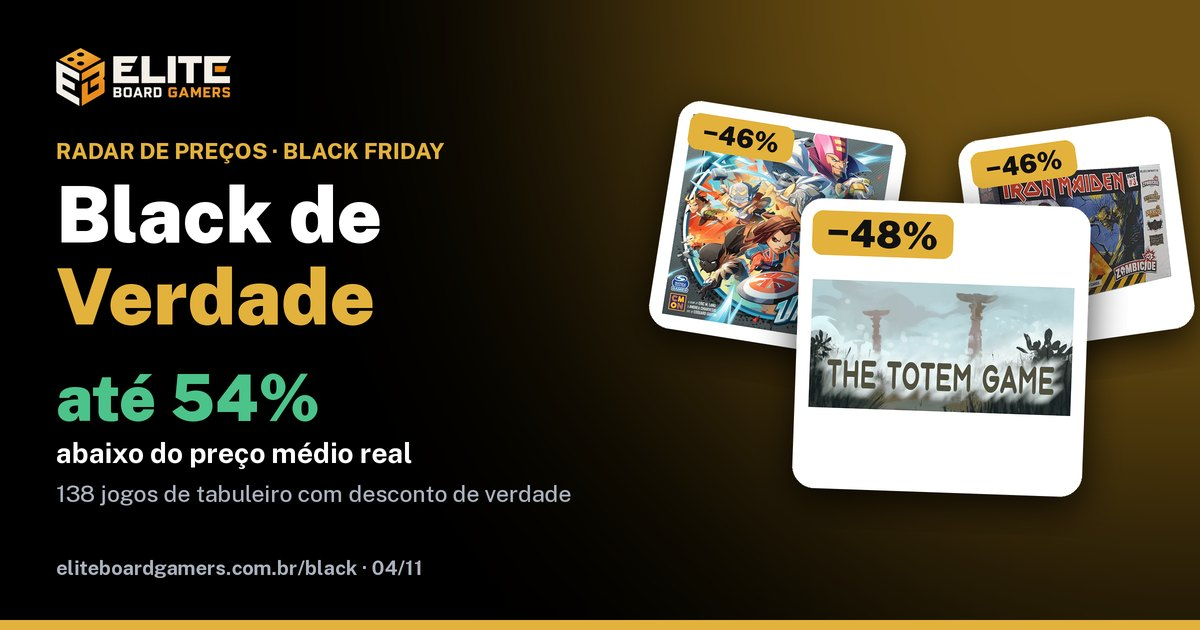
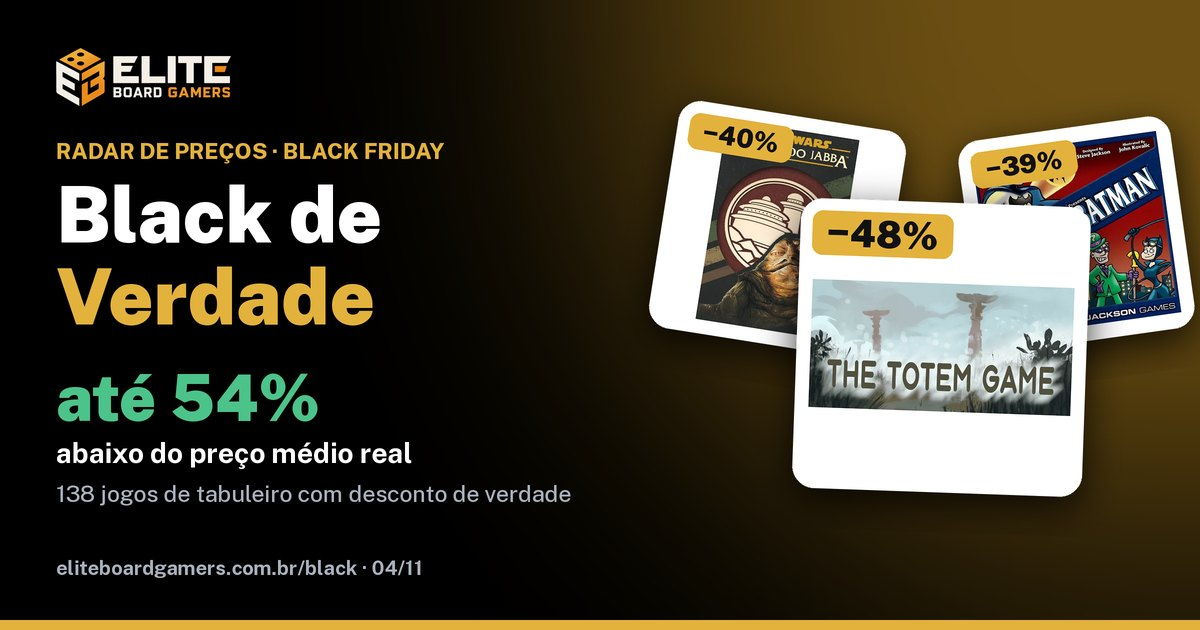
Black: "Últimas novidades" no lugar do Top 5 — as ofertas que entraram por último no radar, com selo de hora de entrada
Claude-Session: https://claude.ai/code/session_01BFQNqipWWWe2hXQE4MnyBM

Changed region(s): [[0.555, 0.2111, 0.74, 0.5429], [0.8017, 0.2111, 0.9867, 0.5127]]

diff --git a/black/index.html b/black/index.html
@@ -13,7 +13,7 @@
 <meta property="og:description" content="138 jogos de tabuleiro até 54% abaixo do preço médio real. Desconto calculado sobre o histórico, não sobre o preço &quot;de&quot; da loja. Atualizado a cada 30 minutos.">
 <meta property="og:type" content="website">
 <meta property="og:url" content="https://eliteboardgamers.com.br/black/">
-<meta property="og:image" content="https://eliteboardgamers.com.br/img/black/og-black.jpg?v=eb33a4e1">
+<meta property="og:image" content="https://eliteboardgamers.com.br/img/black/og-black.jpg?v=e7b9f8f6">
 <meta property="og:image:width" content="1200">
 <meta property="og:image:height" content="630">
 <meta name="twitter:card" content="summary_large_image">
@@ -86,7 +86,7 @@
 .dest .of-c{padding:0 14px 14px}
 .dest .of-n{font-size:1.15rem}
 .dest .of-por{font-size:1.9rem}
-.dest .pos{position:absolute;right:10px;top:10px;width:30px;height:30px;border-radius:50%;display:grid;place-items:center;background:#111;color:var(--gold);font-weight:900;font-size:.9rem;border:1px solid #4a3f1c}
+.of-novo{position:absolute;left:10px;bottom:10px;padding:4px 9px;border-radius:999px;background:#111;color:#5fd38d;font-weight:800;font-size:.78rem;border:1px solid #2f6e4a}.dest .pos{position:absolute;right:10px;top:10px;width:30px;height:30px;border-radius:50%;display:grid;place-items:center;background:#111;color:var(--gold);font-weight:900;font-size:.9rem;border:1px solid #4a3f1c}
 @media (max-width:759px){.dest{grid-auto-flow:column;grid-auto-columns:84%;overflow-x:auto;scroll-snap-type:x mandatory;padding-bottom:6px;margin:0 -16px;padding-left:16px;padding-right:16px;scrollbar-width:none}
  .dest>li{scroll-snap-align:start}}
 @media (min-width:760px){.dest{grid-template-columns:repeat(2,minmax(0,1fr))}}
@@ -403,7 +403,7 @@ footer .in{display:flex;flex-wrap:wrap;gap:10px 20px;padding-top:18px;padding-bo
 .nota .crivo{background:var(--faixa-escura);border:1px solid #262a32;--paper-ink:#eceff3;--paper-muted:#a7afbb}
 .nota .crivo p{color:#c9cfd8}
 .trilha{min-width:0;max-width:100%}.trilha ol{display:flex;align-items:center;min-width:0;margin:0;padding:0;list-style:none;font-size:.85rem;color:var(--muted)}.trilha li{display:flex;align-items:center;white-space:nowrap}.trilha li+li::before{content:"›";content:"›" / "";margin:0 8px;color:var(--muted)}.trilha a{color:var(--gold);font-weight:700;text-decoration:none;padding:4px 0}.trilha a:hover{text-decoration:underline}.trilha li:last-child{display:block;min-width:0;overflow:hidden;text-overflow:ellipsis}.trilha li:last-child::before{display:inline}.busca-btn{display:grid;place-items:center;flex:none;width:44px;height:44px;padding:0;border:1px solid #3a3f48;border-radius:8px;background:none;color:#e9ecf1;cursor:pointer}.busca-btn:hover{border-color:#e3b23c;color:#e3b23c}.busca-btn[hidden]{display:none}.sino-btn{position:relative;display:grid;place-items:center;flex:none;width:44px;height:44px;padding:0;border:1px solid #3a3f48;border-radius:8px;background:none;color:#e9ecf1;cursor:pointer}.sino-btn:hover,.sino-btn.on{border-color:#e3b23c;color:#e3b23c}.sino-btn[hidden]{display:none}.sino-btn.on::after{content:"";position:absolute;right:7px;top:7px;width:8px;height:8px;border-radius:50%;background:#5fd38d;box-shadow:0 0 0 2px #111}footer .in a{display:inline-flex;align-items:center;min-height:24px}.cpw{position:relative;display:inline-block}.cp{display:inline-flex;align-items:center;justify-content:center;gap:8px;box-sizing:border-box;line-height:1.2;min-height:44px;margin:0;padding:10px 20px;border-radius:999px;border:0;background:#157a43;color:#fff;font:inherit;font-size:.95rem;font-weight:800;text-decoration:none;cursor:pointer}.cp:hover{background:#11683a;color:#fff}.cp .ic{width:19px;height:19px}.cp[hidden]{display:none}.cpw.mini .cp{min-height:40px;padding:8px 14px;font-size:.88rem}.cp-menu{position:absolute;z-index:30;top:calc(100% + 8px);left:0;min-width:200px;display:grid;gap:2px;padding:6px;border-radius:12px;background:#fff;border:1px solid #dde1e7;box-shadow:0 10px 30px rgba(0,0,0,.25)}.cp-menu[hidden]{display:none}.cp-menu.sobe{top:auto;bottom:calc(100% + 8px)}.cp-menu.dir{left:auto;right:0}.cp-op{display:flex;align-items:center;gap:10px;min-height:44px;padding:8px 12px;border:0;border-radius:8px;background:none;color:#14171c;font:inherit;font-size:.95rem;font-weight:700;text-align:left;text-decoration:none;cursor:pointer}.cp-op:hover,.cp-op:focus-visible{background:#eef1f4;color:#14171c}.cp-op .ic{width:20px;height:20px}.cp-op.zap-op .ic{color:#157a43}.cp-st{position:absolute;z-index:30;top:calc(100% + 8px);left:0;white-space:nowrap;margin:0;padding:6px 12px;border-radius:8px;background:#14171c;color:#fff;font-size:.85rem;font-weight:700}.cp-st:empty{display:none}.barra-lt .cp-st{top:auto;bottom:calc(100% + 8px)}.convite{display:flex;align-items:center;justify-content:space-between;gap:12px 20px;flex-wrap:wrap}.convite .cv-t{margin:0;font-weight:800;font-size:1.1rem}.convite .cv-s{margin:2px 0 0;font-size:.92rem;opacity:.8}.barra-lt>*{flex:none}.barra-lt{width:max-content;max-width:calc(100vw - 12px);box-sizing:border-box;position:fixed;z-index:25;left:50%;bottom:calc(12px + env(safe-area-inset-bottom));display:flex;align-items:center;gap:4px;padding:5px;border-radius:999px;background:#14171c;border:1px solid #3a3f48;box-shadow:0 8px 24px rgba(0,0,0,.35);transform:translate(-50%,0);transition:transform .25s ease,opacity .25s ease}.barra-lt.fora{transform:translate(-50%,calc(100% + 24px));opacity:0;pointer-events:none}.lt-b{display:inline-flex;align-items:center;gap:7px;min-height:44px;padding:8px 14px;border:0;border-radius:999px;background:none;color:#e9ecf1;font:inherit;font-size:.9rem;font-weight:700;text-decoration:none;cursor:pointer}.lt-b:hover{background:#262a31;color:#fff}.lt-b .ic{width:20px;height:20px}.barra-lt .lt-b.curtir{background:none;border:0;color:#e9ecf1;padding:8px 14px}.barra-lt .lt-b.curtir[aria-pressed=true]{color:#ff6b81;background:none}@media (max-width:479px){.lt-b span{position:absolute;width:1px;height:1px;overflow:hidden;clip-path:inset(50%);white-space:nowrap}}.lt-b.curtir[aria-pressed=true] .ic{fill:currentColor}.lt-grupo{display:inline-flex;align-items:center;justify-content:center;gap:7px;min-height:44px;padding:0 14px 0 6px;border-radius:999px;background:#e3b23c;color:#14171c;font-size:.9rem;font-weight:800;text-decoration:none;white-space:nowrap}.lt-grupo:hover{background:#f0c44f;color:#14171c}.lt-grupo img{width:32px;height:32px;border-radius:8px;display:block}@media (max-width:479px){.barra-lt{gap:2px}.barra-lt .lt-b{padding:8px 10px}.barra-lt .cp{padding:8px 12px}.lt-grupo{padding:0 12px 0 6px}}@media (max-width:399px){.barra-lt:has(.curtir) .cp span{position:absolute;width:1px;height:1px;overflow:hidden;clip-path:inset(50%);white-space:nowrap}.barra-lt:has(.curtir) .cp{padding:8px 14px}}.barra-lt .cp{min-height:44px;padding:8px 16px;font-size:.9rem}body.lt-on .voltar-topo,body.lt-on button.sobe{bottom:calc(76px + env(safe-area-inset-bottom))}@media print{.barra-lt{display:none}}.interacoes{display:grid;gap:14px}.interacoes[hidden]{display:none}.curtir-l{display:flex;align-items:center;gap:12px;flex-wrap:wrap}.curtir{display:inline-flex;align-items:center;gap:8px;min-height:44px;padding:8px 18px;border-radius:999px;border:2px solid #b3263e;background:#fff;color:#b3263e;font:inherit;font-weight:800;cursor:pointer}.curtir .ic{width:22px;height:22px}.curtir[aria-pressed=true]{background:#b3263e;color:#fff}.curtir[aria-pressed=true] .ic{fill:currentColor}.curtir .n{font-variant-numeric:tabular-nums}.curtir-dica{font-size:.9rem;color:#5a6270}.interacoes h2{margin:4px 0 0}.coms{list-style:none;margin:0;padding:0;display:grid;gap:10px}.coms li{background:#fff;border:1px solid #dde1e7;border-radius:10px;padding:12px 14px}.com-quem{margin:0;font-size:.92rem}.com-quem time{color:#5a6270;font-size:.8rem;margin-left:6px}.com-txt{margin:4px 0 0;white-space:pre-wrap;color:#14171c}.coms-vazio{margin:0;color:#5a6270}.com-form{display:grid;gap:10px;border-top:1px solid #dde1e7;padding-top:14px}.com-form label{display:grid;gap:4px;font-weight:700;font-size:.9rem;color:#14171c}.com-form small{font-weight:600;color:#5a6270}.com-form input,.com-form textarea{font:inherit;font-size:16px;font-weight:400;padding:10px 12px;border:1px solid #c8cdd5;border-radius:8px;background:#fff;color:#14171c}.com-form textarea{resize:vertical;min-height:110px}.com-form .isca{position:absolute;left:-9999px;width:1px;height:1px;overflow:hidden}.com-form button{justify-self:start;min-height:44px;padding:10px 20px;border-radius:999px;border:0;background:#14171c;color:#fff;font:inherit;font-weight:800;cursor:pointer}.com-form button:disabled{opacity:.6}.com-aviso{margin:0;font-size:.82rem;color:#5a6270}.com-aviso a{color:#1f5fae}.com-st{margin:0;font-weight:700;font-size:.92rem}.com-st:empty{display:none}.com-st.ok{color:#1b7a45}.com-st.erro{color:#a3223a}:where(html){scroll-padding-top:calc(var(--nav-h,49px) + 12px)}.nav{position:sticky;top:0;z-index:20}body .abas,body .barra-f,body .ctrl{top:var(--nav-h,49px)}.marca img.logo{width:auto;height:48px;border-radius:0}@media (max-width:480px){.marca img.logo{height:40px}}.nav .casa{display:flex;align-items:center;justify-content:center;min-width:44px}.nav .casa .ic{width:20px;height:20px}@media (prefers-reduced-motion:reduce){*,*::before,*::after{animation-duration:.01ms!important;animation-iteration-count:1!important;transition-duration:.01ms!important;scroll-behavior:auto!important}.card:hover,.jogo:hover .capa img,.jogo:active .capa,.zap:active,.post-btn:active,.btn-filtro:hover,.btn-filtro:active,.ver:active{transform:none!important}}</style>
-<script type="application/ld+json">{"@context": "https://schema.org", "@graph": [{"@type": "Organization", "@id": "https://eliteboardgamers.com.br/#organizacao", "name": "Elite Boardgamers", "url": "https://eliteboardgamers.com.br/", "logo": {"@type": "ImageObject", "url": "https://eliteboardgamers.com.br/marca/elite-boardgamers.webp", "width": 318, "height": 254}, "sameAs": ["https://www.instagram.com/eliteboardgamers/"]}, {"@type": "CollectionPage", "@id": "https://eliteboardgamers.com.br/black/", "url": "https://eliteboardgamers.com.br/black/", "name": "Black de Verdade: ofertas de jogos de tabuleiro com desconto real", "inLanguage": "pt-BR", "dateModified": "2026-11-04T14:37-03:00"}, {"@type": "BreadcrumbList", "itemListElement": [{"@type": "ListItem", "position": 1, "name": "Início", "item": "https://eliteboardgamers.com.br/"}, {"@type": "ListItem", "position": 2, "name": "Black de Verdade", "item": "https://eliteboardgamers.com.br/black/"}]}]}</script>
+<script type="application/ld+json">{"@context": "https://schema.org", "@graph": [{"@type": "Organization", "@id": "https://eliteboardgamers.com.br/#organizacao", "name": "Elite Boardgamers", "url": "https://eliteboardgamers.com.br/", "logo": {"@type": "ImageObject", "url": "https://eliteboardgamers.com.br/marca/elite-boardgamers.webp", "width": 318, "height": 254}, "sameAs": ["https://www.instagram.com/eliteboardgamers/"]}, {"@type": "CollectionPage", "@id": "https://eliteboardgamers.com.br/black/", "url": "https://eliteboardgamers.com.br/black/", "name": "Black de Verdade: ofertas de jogos de tabuleiro com desconto real", "inLanguage": "pt-BR", "dateModified": "2026-11-04T14:51-03:00"}, {"@type": "BreadcrumbList", "itemListElement": [{"@type": "ListItem", "position": 1, "name": "Início", "item": "https://eliteboardgamers.com.br/"}, {"@type": "ListItem", "position": 2, "name": "Black de Verdade", "item": "https://eliteboardgamers.com.br/black/"}]}]}</script>
 </head>
 <body>
 <header class="bar" id="topo"><div class="in">
@@ -429,8 +429,8 @@ footer .in{display:flex;flex-wrap:wrap;gap:10px 20px;padding-top:18px;padding-bo
    <li><b>27</b><span>no menor preço do período</span></li>
    <li><b>9</b><span>cupoms anunciados pelas lojas</span></li>
   </ul>
-  <p class="bk-atual">Atualizado em 04/11/2026 às 14h37 (horário de Brasília). O radar lê os preços de novo a cada 30 minutos.</p>
-  <nav class="bk-pulo" aria-label="Atalhos"><a class="pri" href="#melhores">Ver as melhores ofertas</a><a class="sec" href="#alertas">🔔 Alertas no celular</a><button type="button" class="inst" hidden>📲 Tela de Início</button><a class="sec" href="#todas">Bem avaliados (61)</a><a class="sec" href="#outras">Outras promoções (77)</a><a class="sec" href="#quase">Quase Black (21)</a><a class="sec" href="#cupons">Cupons</a><a class="sec" href="#comunidade">Achados da comunidade</a><a class="sec" href="#sem-foto">Achados sem foto</a></nav>
+  <p class="bk-atual">Atualizado em 04/11/2026 às 14h51 (horário de Brasília). O radar lê os preços de novo a cada 30 minutos.</p>
+  <nav class="bk-pulo" aria-label="Atalhos"><a class="pri" href="#melhores">Ver as novidades</a><a class="sec" href="#alertas">🔔 Alertas no celular</a><button type="button" class="inst" hidden>📲 Tela de Início</button><a class="sec" href="#todas">Bem avaliados (61)</a><a class="sec" href="#outras">Outras promoções (77)</a><a class="sec" href="#quase">Quase Black (21)</a><a class="sec" href="#cupons">Cupons</a><a class="sec" href="#comunidade">Achados da comunidade</a><a class="sec" href="#sem-foto">Achados sem foto</a></nav>
  </header>
  <ul class="bk-conf">
   <li>Desconto calculado sobre a média aparada do histórico de preços, não sobre o preço "de" da loja.</li>
@@ -535,10 +535,10 @@ bts.forEach(b=>b.addEventListener('click',async()=>{
 document.querySelectorAll('.guia-perm').forEach(b=>b.addEventListener('click',()=>window.EliteGuia&&EliteGuia.abrir('permissao')))});
 </script>
  <section id="melhores" aria-labelledby="h-melhores">
-  <h2 id="h-melhores">As 5 melhores das últimas 6 horas</h2>
-  <p class="sub">A melhor combinação de nota no BGG e desconto real entre as ofertas encontradas ou conferidas desde 08h37. Muda sozinho a cada leitura do radar.</p>
+  <h2 id="h-melhores">Últimas novidades</h2>
+  <p class="sub">As ofertas que acabaram de entrar no radar, a mais nova primeiro. Muda a cada leitura, de 30 em 30 minutos.</p>
   <ol class="dest"><li class="of" data-tipo="game" data-desc="0.4815" data-eco="34.44" data-bgg="8.14" data-por="37.09" data-rec="1" data-busca="the totem game place games (independente)">
- <a class="of-img" href="https://www.placegames.com.br/boardgames/the-totem-game" target="_blank" rel="noopener nofollow sponsored" tabindex="-1" aria-hidden="true"><img src="../img/black/the-totem-game-g.webp" alt="" loading="lazy" decoding="async" width="640" height="640"><span class="of-pct">−48%</span><span class="pos">1</span></a>
+ <a class="of-img" href="https://www.placegames.com.br/boardgames/the-totem-game" target="_blank" rel="noopener nofollow sponsored" tabindex="-1" aria-hidden="true"><img src="../img/black/the-totem-game-g.webp" alt="" loading="lazy" decoding="async" width="640" height="640"><span class="of-pct">−48%</span></a>
  <div class="of-c">
   <span class="of-rec">Menor preço do período</span>
   <h3 class="of-n">The Totem Game</h3>
@@ -554,75 +554,126 @@ document.querySelectorAll('.guia-perm').forEach(b=>b.addEventListener('click',()
   
   <details class="of-mais"><summary>Como chegamos a esse desconto</summary><p class="calc">Média do período: R$ 71,53 (33 dias de histórico, base curta). Menor preço do período: R$ 37,09. Preço lido na página da loja, hoje às 14h36.</p></details>
  </div>
-</li><li class="of" data-tipo="game" data-desc="0.4555" data-eco="88.57" data-bgg="8.41" data-por="105.90" data-rec="0" data-busca="marvel united: multiverse facil shopping cmon limited">
- <a class="of-img" href="https://www.facilshopping.com.br/produtos/marvel-united-multiverse-jogo-de-tabuleiro-galapagos/" target="_blank" rel="noopener nofollow sponsored" tabindex="-1" aria-hidden="true"><img src="../img/black/marvel-united-multiverse-g.webp" alt="" loading="lazy" decoding="async" width="640" height="640"><span class="of-pct">−46%</span><span class="pos">2</span></a>
+</li><li class="of" data-tipo="game" data-desc="0.4009" data-eco="18.60" data-bgg="7.21" data-por="27.79" data-rec="1" data-busca="star wars: palácio do jabba: um jogo love letter place games galápagos jogos">
+ <a class="of-img" href="https://www.placegames.com.br/palacio-de-jabba" target="_blank" rel="noopener nofollow sponsored" tabindex="-1" aria-hidden="true"><img src="../img/black/star-wars-palacio-do-jabba-um-jogo-love-letter-g.webp" alt="" loading="lazy" decoding="async" width="640" height="640"><span class="of-pct">−40%</span></a>
+ <div class="of-c">
+  <span class="of-rec">Menor preço do período</span>
+  <h3 class="of-n">Star Wars: Palácio do Jabba: Um Jogo Love Letter</h3>
+  <p class="of-m">Galápagos Jogos · <span class="of-nota">★ 7,2</span> no BGG</p>
+  <p class="of-p"><b class="of-por">R$ 27,79</b><span class="of-ref">média <s>R$ 46,39</s></span></p>
+  <div class="of-bar" role="img" aria-label="Preço de hoje é 60% da média"><span style="width:60%"></span></div>
+  <p class="of-eco">R$ 18,60 abaixo da média (40%)</p>
+  <p class="of-loja">na <b>Place Games</b> · preço visto hoje às 14h36</p>
+ </div>
+ <div class="of-acao">
+  <a class="of-btn" href="https://www.placegames.com.br/palacio-de-jabba" target="_blank" rel="noopener nofollow sponsored">Ver na Place Games ↗</a>
+  
+  
+  <details class="of-mais"><summary>Como chegamos a esse desconto</summary><p class="calc">Média do período: R$ 46,39 (33 dias de histórico, base curta). Menor preço do período: R$ 27,79. Preço lido na página da loja, hoje às 14h36.</p></details>
+ </div>
+</li><li class="of" data-tipo="game" data-desc="0.3888" data-eco="40.72" data-bgg="7.47" data-por="64.00" data-rec="0" data-busca="steve jackson&#x27;s munchkin presents batman caixinha boardgames cryptozoic entertainment">
+ <a class="of-img" href="https://www.caixinhaboardgames.com.br/produtos/munchkin-batman/" target="_blank" rel="noopener nofollow sponsored" tabindex="-1" aria-hidden="true"><img src="../img/black/steve-jacksons-munchkin-presents-batman-g.webp" alt="" loading="lazy" decoding="async" width="640" height="640"><span class="of-pct">−39%</span></a>
  <div class="of-c">
   
-  <h3 class="of-n">Marvel United: Multiverse</h3>
-  <p class="of-m">CMON Limited · <span class="of-nota">★ 8,4</span> no BGG</p>
-  <p class="of-p"><b class="of-por">R$ 105,90</b><span class="of-ref">média <s>R$ 194,47</s></span></p>
+  <h3 class="of-n">Steve Jackson&#x27;s Munchkin Presents Batman</h3>
+  <p class="of-m">Cryptozoic Entertainment · <span class="of-nota">★ 7,5</span> no BGG</p>
+  <p class="of-p"><b class="of-por">R$ 64,00</b><span class="of-ref">média <s>R$ 104,72</s></span></p>
+  <div class="of-bar" role="img" aria-label="Preço de hoje é 61% da média"><span style="width:61%"></span></div>
+  <p class="of-eco">R$ 40,72 abaixo da média (39%)</p>
+  <p class="of-loja">na <b>Caixinha Boardgames</b> · preço visto hoje às 14h36</p>
+ </div>
+ <div class="of-acao">
+  <a class="of-btn" href="https://www.caixinhaboardgames.com.br/produtos/munchkin-batman/" target="_blank" rel="noopener nofollow sponsored">Ver na Caixinha Boardgames ↗</a>
+  
+  
+  <details class="of-mais"><summary>Como chegamos a esse desconto</summary><p class="calc">Média do período: R$ 104,72 (33 dias de histórico, base curta). Menor preço do período: R$ 59,52. Preço lido na página da loja, hoje às 14h36.</p></details>
+ </div>
+</li><li class="of" data-tipo="game" data-desc="0.3548" data-eco="22.00" data-bgg="8.50" data-por="40.00" data-rec="0" data-busca="zenkai: adventure arcs livros e jogos art ao cubo">
+ <a class="of-img" href="https://www.espacoarcs.com.br/jogos/zenkai-adventure-caverna-glacial" target="_blank" rel="noopener nofollow sponsored" tabindex="-1" aria-hidden="true"><img src="../img/black/zenkai-adventure-g.webp" alt="" loading="lazy" decoding="async" width="640" height="640"><span class="of-pct">−35%</span></a>
+ <div class="of-c">
+  
+  <h3 class="of-n">Zenkai: Adventure</h3>
+  <p class="of-m">Art ao Cubo · <span class="of-nota">★ 8,5</span> no BGG</p>
+  <p class="of-p"><b class="of-por">R$ 40,00</b><span class="of-ref">média <s>R$ 62,00</s></span></p>
+  <div class="of-bar" role="img" aria-label="Preço de hoje é 65% da média"><span style="width:65%"></span></div>
+  <p class="of-eco">R$ 22,00 abaixo da média (35%)</p>
+  <p class="of-loja">na <b>ARCS Livros e Jogos</b> · preço visto hoje às 14h36</p>
+ </div>
+ <div class="of-acao">
+  <a class="of-btn" href="https://www.espacoarcs.com.br/jogos/zenkai-adventure-caverna-glacial" target="_blank" rel="noopener nofollow sponsored">Ver na ARCS Livros e Jogos ↗</a>
+  
+  
+  <details class="of-mais"><summary>Como chegamos a esse desconto</summary><p class="calc">Média do período: R$ 62,00 (33 dias de histórico, base curta). Menor preço do período: R$ 36,00. Preço lido na página da loja, hoje às 14h36.</p></details>
+ </div>
+</li><li class="of" data-tipo="expansion" data-desc="0.3244" data-eco="14.35" data-bgg="7.99" data-por="29.90" data-rec="0" data-busca="viticulture: visitantes do charco facil shopping ludofy creative">
+ <a class="of-img" href="https://www.facilshopping.com.br/produtos/viticulture-visitantes-do-charco-expansao-grok/" target="_blank" rel="noopener nofollow sponsored" tabindex="-1" aria-hidden="true"><img src="../img/black/viticulture-visitantes-do-charco-g.webp" alt="" loading="lazy" decoding="async" width="640" height="640"><span class="of-pct">−32%</span></a>
+ <div class="of-c">
+  
+  <h3 class="of-n">Viticulture: Visitantes do Charco</h3>
+  <p class="of-m">Ludofy Creative · Expansão · <span class="of-nota">★ 8,0</span> no BGG</p>
+  <p class="of-p"><b class="of-por">R$ 29,90</b><span class="of-ref">média <s>R$ 44,25</s></span></p>
+  <div class="of-bar" role="img" aria-label="Preço de hoje é 68% da média"><span style="width:68%"></span></div>
+  <p class="of-eco">R$ 14,35 abaixo da média (32%)</p>
+  <p class="of-loja">na <b>Facil Shopping</b> · preço visto hoje às 14h36</p>
+ </div>
+ <div class="of-acao">
+  <a class="of-btn" href="https://www.facilshopping.com.br/produtos/viticulture-visitantes-do-charco-expansao-grok/" target="_blank" rel="noopener nofollow sponsored">Ver na Facil Shopping ↗</a>
+  
+  
+  <details class="of-mais"><summary>Como chegamos a esse desconto</summary><p class="calc">Média do período: R$ 44,25 (33 dias de histórico, base curta). Menor preço do período: R$ 27,81. Preço lido na página da loja, hoje às 14h36.</p></details>
+ </div>
+</li><li class="of" data-tipo="expansion" data-desc="0.2853" data-eco="48.22" data-bgg="8.45" data-por="120.79" data-rec="1" data-busca="wingspan: expansão oceania place games ludofy creative">
+ <a class="of-img" href="https://www.placegames.com.br/wingspan-oceania" target="_blank" rel="noopener nofollow sponsored" tabindex="-1" aria-hidden="true"><img src="../img/black/wingspan-expansao-oceania-g.webp" alt="" loading="lazy" decoding="async" width="640" height="640"><span class="of-pct">−29%</span></a>
+ <div class="of-c">
+  <span class="of-rec">Menor preço do período</span>
+  <h3 class="of-n">Wingspan: Expansão Oceania</h3>
+  <p class="of-m">Ludofy Creative · Expansão · <span class="of-nota">★ 8,5</span> no BGG</p>
+  <p class="of-p"><b class="of-por">R$ 120,79</b><span class="of-ref">média <s>R$ 169,01</s></span></p>
+  <div class="of-bar" role="img" aria-label="Preço de hoje é 71% da média"><span style="width:71%"></span></div>
+  <p class="of-eco">R$ 48,22 abaixo da média (29%)</p>
+  <p class="of-loja">na <b>Place Games</b> · preço visto hoje às 14h36</p>
+ </div>
+ <div class="of-acao">
+  <a class="of-btn" href="https://www.placegames.com.br/wingspan-oceania" target="_blank" rel="noopener nofollow sponsored">Ver na Place Games ↗</a>
+  
+  
+  <details class="of-mais"><summary>Como chegamos a esse desconto</summary><p class="calc">Média do período: R$ 169,01 (33 dias de histórico, base curta). Menor preço do período: R$ 120,79. Preço lido na página da loja, hoje às 14h36.</p></details>
+ </div>
+</li><li class="of" data-tipo="game" data-desc="0.2846" data-eco="47.70" data-bgg="7.89" data-por="119.90" data-rec="0" data-busca="van gogh tabuloja conclave editora">
+ <a class="of-img" href="https://www.tabuloja.com/jogos-de-tabuleiro/jogos-base/van-gogh" target="_blank" rel="noopener nofollow sponsored" tabindex="-1" aria-hidden="true"><img src="../img/black/van-gogh-g.webp" alt="" loading="lazy" decoding="async" width="640" height="640"><span class="of-pct">−28%</span></a>
+ <div class="of-c">
+  
+  <h3 class="of-n">Van Gogh</h3>
+  <p class="of-m">Conclave Editora · <span class="of-nota">★ 7,9</span> no BGG</p>
+  <p class="of-p"><b class="of-por">R$ 119,90</b><span class="of-ref">média <s>R$ 167,60</s></span></p>
+  <div class="of-bar" role="img" aria-label="Preço de hoje é 72% da média"><span style="width:72%"></span></div>
+  <p class="of-eco">R$ 47,70 abaixo da média (28%)</p>
+  <p class="of-loja">na <b>TabuLoja</b> · preço visto hoje às 14h36</p>
+ </div>
+ <div class="of-acao">
+  <a class="of-btn" href="https://www.tabuloja.com/jogos-de-tabuleiro/jogos-base/van-gogh" target="_blank" rel="noopener nofollow sponsored">Ver na TabuLoja ↗</a>
+  
+  
+  <details class="of-mais"><summary>Como chegamos a esse desconto</summary><p class="calc">Média do período: R$ 167,60 (33 dias de histórico, base curta). Menor preço do período: R$ 107,91. Preço lido na página da loja, hoje às 14h36.</p></details>
+ </div>
+</li><li class="of" data-tipo="game" data-desc="0.4573" data-eco="18.17" data-bgg="6.41" data-por="21.56" data-rec="0" data-busca="uestop! facil shopping caixinha boardgames galápagos jogos">
+ <a class="of-img" href="https://www.facilshopping.com.br/produtos/uestop-jogo-de-cartas-galapagos/" target="_blank" rel="noopener nofollow sponsored" tabindex="-1" aria-hidden="true"><img src="../img/black/uestop-g.webp" alt="" loading="lazy" decoding="async" width="640" height="640"><span class="of-pct">−46%</span></a>
+ <div class="of-c">
+  
+  <h3 class="of-n">UeStop!</h3>
+  <p class="of-m">Galápagos Jogos · <span class="of-nota">★ 6,4</span> no BGG</p>
+  <p class="of-p"><b class="of-por">R$ 21,56</b><span class="of-ref">média <s>R$ 39,73</s></span></p>
   <div class="of-bar" role="img" aria-label="Preço de hoje é 54% da média"><span style="width:54%"></span></div>
-  <p class="of-eco">R$ 88,57 abaixo da média (46%)</p>
-  <p class="of-loja">na <b>Facil Shopping</b> · preço visto hoje às 14h34</p>
+  <p class="of-eco">R$ 18,17 abaixo da média (46%)</p>
+  <p class="of-loja">na <b>Facil Shopping</b> · preço visto hoje às 14h36</p>
  </div>
  <div class="of-acao">
-  <a class="of-btn" href="https://www.facilshopping.com.br/produtos/marvel-united-multiverse-jogo-de-tabuleiro-galapagos/" target="_blank" rel="noopener nofollow sponsored">Ver na Facil Shopping ↗</a>
+  <a class="of-btn" href="https://www.facilshopping.com.br/produtos/uestop-jogo-de-cartas-galapagos/" target="_blank" rel="noopener nofollow sponsored">Ver na Facil Shopping ↗</a>
+  <details class="of-mais"><summary>Mais 1 loja com desconto real</summary><ul><li><span>Caixinha Boardgames: <b>R$ 22,00</b> (45% abaixo da média)</span><a href="https://www.caixinhaboardgames.com.br/produtos/uestop-turma-da-monica/" target="_blank" rel="noopener nofollow sponsored">Ver</a></li></ul></details>
   
-  
-  <details class="of-mais"><summary>Como chegamos a esse desconto</summary><p class="calc">Média do período: R$ 194,47 (33 dias de histórico, base curta). Menor preço do período: R$ 98,49. Preço lido na página da loja, hoje às 14h34.</p></details>
+  <details class="of-mais"><summary>Como chegamos a esse desconto</summary><p class="calc">Média do período: R$ 39,73 (32 dias de histórico, base curta). Menor preço do período: R$ 20,05. Preço lido na página da loja, hoje às 14h36.</p></details>
  </div>
-</li><li class="of" data-tipo="expansion" data-desc="0.4578" data-eco="109.74" data-bgg="8.23" data-por="129.99" data-rec="0" data-busca="iron maiden pack #3 bravo jogos cmon limited">
- <a class="of-img" href="https://bravojogos.com.br/jogos-de-tabuleiro-e-cardgames/expansoes/jogo-iron-maiden-character-pack-3-expansao-p" target="_blank" rel="noopener nofollow sponsored" tabindex="-1" aria-hidden="true"><img src="../img/black/iron-maiden-pack-3-g.webp" alt="" loading="lazy" decoding="async" width="640" height="640"><span class="of-pct">−46%</span><span class="pos">3</span></a>
- <div class="of-c">
-  
-  <h3 class="of-n">Iron Maiden Pack #3</h3>
-  <p class="of-m">CMON Limited · Expansão · <span class="of-nota">★ 8,2</span> no BGG</p>
-  <p class="of-p"><b class="of-por">R$ 129,99</b><span class="of-ref">média <s>R$ 239,73</s></span></p>
-  <div class="of-bar" role="img" aria-label="Preço de hoje é 54% da média"><span style="width:54%"></span></div>
-  <p class="of-eco">R$ 109,74 abaixo da média (46%)</p>
-  <p class="of-loja">na <b>Bravo Jogos</b> · preço visto hoje às 14h34 <span class="of-cp">cupom CARNIVAL</span></p>
- </div>
- <div class="of-acao">
-  <a class="of-btn" href="https://bravojogos.com.br/jogos-de-tabuleiro-e-cardgames/expansoes/jogo-iron-maiden-character-pack-3-expansao-p" target="_blank" rel="noopener nofollow sponsored">Ver na Bravo Jogos ↗</a>
-  
-  
-  <details class="of-mais"><summary>Como chegamos a esse desconto</summary><p class="calc">Média do período: R$ 239,73 (33 dias de histórico, base curta). Menor preço do período: R$ 120,89. Preço lido na página da loja, hoje às 14h34.</p></details>
- </div>
-</li><li class="of" data-tipo="game" data-desc="0.4989" data-eco="50.00" data-bgg="7.18" data-por="50.22" data-rec="1" data-busca="piratas! (3ª edição) caixinha boardgames place games geeks n&#x27; orcs">
- <a class="of-img" href="https://www.comparajogos.com.br/item/piratas-3a-edicao" target="_blank" rel="noopener nofollow sponsored" tabindex="-1" aria-hidden="true"><img src="../img/black/piratas-3a-edicao-g.webp" alt="" loading="lazy" decoding="async" width="640" height="640"><span class="of-pct">−50%</span><span class="pos">4</span></a>
- <div class="of-c">
-  <span class="of-rec">Menor preço do período</span><span class="of-com">Achado da comunidade · vendedor não conferido</span>
-  <h3 class="of-n">Piratas! (3ª Edição)</h3>
-  <p class="of-m">Geeks N&#x27; Orcs · <span class="of-nota">★ 7,2</span> no BGG</p>
-  <p class="of-p"><b class="of-por">R$ 50,22</b><span class="of-ref">média <s>R$ 100,22</s></span></p>
-  <div class="of-bar" role="img" aria-label="Preço de hoje é 50% da média"><span style="width:50%"></span></div>
-  <p class="of-eco">R$ 50,00 abaixo da média (50%)</p>
-  <p class="of-loja">na <b>Caixinha Boardgames</b> · postado hoje às 12h04</p>
- </div>
- <div class="of-acao">
-  <a class="of-btn" href="https://www.comparajogos.com.br/item/piratas-3a-edicao" target="_blank" rel="noopener nofollow sponsored">Ver na Caixinha Boardgames ↗</a>
-  <details class="of-mais"><summary>Mais 1 loja com desconto real</summary><ul><li><span>Place Games: <b>R$ 74,29</b> (26% abaixo da média)</span><a href="https://www.placegames.com.br/boardgames/piratas-edicao-10-anos" target="_blank" rel="noopener nofollow sponsored">Ver</a></li></ul></details>
-  <a class="of-post" href="https://t.me/ComparaJogos/52442" target="_blank" rel="noopener nofollow">Ver o post original ↗</a>
-  <details class="of-mais"><summary>Como chegamos a esse desconto</summary><p class="calc">Média do período: R$ 100,22 (33 dias de histórico, base curta). Menor preço do período: R$ 50,22. Preço postado no Canal Compara Jogos hoje às 12h04; vendedor e validade não conferidos pelo robô.</p></details>
- </div>
-</li><li class="of" data-tipo="expansion" data-desc="0.4518" data-eco="15.65" data-bgg="7.46" data-por="18.99" data-rec="0" data-busca="magic maze: maximum security taverna real caixinha boardgames dude games">
- <a class="of-img" href="https://www.tavernareal.com/tabuleiro/magic-maze-maximum-security" target="_blank" rel="noopener nofollow sponsored" tabindex="-1" aria-hidden="true"><img src="../img/black/magic-maze-maximum-security-g.webp" alt="" loading="lazy" decoding="async" width="640" height="640"><span class="of-pct">−45%</span><span class="pos">5</span></a>
- <div class="of-c">
-  
-  <h3 class="of-n">Magic Maze: Maximum Security</h3>
-  <p class="of-m">Dude Games · Expansão · <span class="of-nota">★ 7,5</span> no BGG</p>
-  <p class="of-p"><b class="of-por">R$ 18,99</b><span class="of-ref">média <s>R$ 34,64</s></span></p>
-  <div class="of-bar" role="img" aria-label="Preço de hoje é 55% da média"><span style="width:55%"></span></div>
-  <p class="of-eco">R$ 15,65 abaixo da média (45%)</p>
-  <p class="of-loja">na <b>Taverna Real</b> · preço visto hoje às 14h34</p>
- </div>
- <div class="of-acao">
-  <a class="of-btn" href="https://www.tavernareal.com/tabuleiro/magic-maze-maximum-security" target="_blank" rel="noopener nofollow sponsored">Ver na Taverna Real ↗</a>
-  <details class="of-mais"><summary>Mais 1 loja com desconto real</summary><ul><li><span>Caixinha Boardgames: <b>R$ 19,00</b> (45% abaixo da média)</span><a href="https://www.caixinhaboardgames.com.br/produtos/maximum-security-expansao-magic-maze/" target="_blank" rel="noopener nofollow sponsored">Ver</a></li></ul></details>
-  
-  <details class="of-mais"><summary>Como chegamos a esse desconto</summary><p class="calc">Média do período: R$ 34,64 (33 dias de histórico, base curta). Menor preço do período: R$ 13,57. Preço lido na página da loja, hoje às 14h34.</p></details>
- </div>
-</li></ol><p class="dica-arrasta">Arraste para o lado para ver as cinco.</p>
+</li></ol><p class="dica-arrasta">Arraste para o lado para ver as outras.</p>
  </section>
  <section id="todas" aria-labelledby="h-todas">
   <h2 id="h-todas">Todas as ofertas com desconto real</h2>

diff --git a/tools/black/pagina_black.py b/tools/black/pagina_black.py
@@ -97,7 +97,7 @@ CSS = """<style>
 .dest .of-c{padding:0 14px 14px}
 .dest .of-n{font-size:1.15rem}
 .dest .of-por{font-size:1.9rem}
-.dest .pos{position:absolute;right:10px;top:10px;width:30px;height:30px;border-radius:50%;display:grid;place-items:center;background:#111;color:var(--gold);font-weight:900;font-size:.9rem;border:1px solid #4a3f1c}
+.of-novo{position:absolute;left:10px;bottom:10px;padding:4px 9px;border-radius:999px;background:#111;color:#5fd38d;font-weight:800;font-size:.78rem;border:1px solid #2f6e4a}.dest .pos{position:absolute;right:10px;top:10px;width:30px;height:30px;border-radius:50%;display:grid;place-items:center;background:#111;color:var(--gold);font-weight:900;font-size:.9rem;border:1px solid #4a3f1c}
 @media (max-width:759px){.dest{grid-auto-flow:column;grid-auto-columns:84%;overflow-x:auto;scroll-snap-type:x mandatory;padding-bottom:6px;margin:0 -16px;padding-left:16px;padding-right:16px;scrollbar-width:none}
  .dest>li{scroll-snap-align:start}}
 @media (min-width:760px){.dest{grid-template-columns:repeat(2,minmax(0,1fr))}}
@@ -301,7 +301,7 @@ def nota_txt(x):
     return f'<span class="of-nota">★ {x["bgg"]:.1f}</span> no BGG'.replace(".", ",", 1) if x["bgg"] else "sem nota no BGG"
 
 
-def cartao(grupo, pre, cps, agora_, destaque=False, pos=None):
+def cartao(grupo, pre, cps, agora_, destaque=False, pos=None, novo=None):
     """Um jogo: a melhor oferta em destaque e, se houver, as outras lojas que também passaram no corte."""
     x = grupo[0]
     img = capa(x, pre, 640 if destaque else 240)
@@ -318,7 +318,7 @@ def cartao(grupo, pre, cps, agora_, destaque=False, pos=None):
     dados = (f'data-tipo="{e(x["tipo"])}" data-desc="{x["desc"]:.4f}" data-eco="{eco:.2f}" data-bgg="{x["bgg"] or 0:.2f}" '
              f'data-por="{x["por"]:.2f}" data-rec="{1 if x["recorde"] else 0}" data-busca="{e((nome(x) + " " + " ".join(o["loja"] for o in grupo) + " " + (x["editora"] or "")).lower())}"')
     return f"""<li class="of" {dados}>
- <a class="of-img" href="{e(x["url"])}" {rel} tabindex="-1" aria-hidden="true">{f'<img src="{img}" alt="" loading="lazy" decoding="async" width="{640 if destaque else 240}" height="{640 if destaque else 240}">' if img else ilustra(nome(x), x["loja"])}<span class="of-pct">−{pct(x["desc"])}</span>{f'<span class="pos">{pos}</span>' if pos else ""}</a>
+ <a class="of-img" href="{e(x["url"])}" {rel} tabindex="-1" aria-hidden="true">{f'<img src="{img}" alt="" loading="lazy" decoding="async" width="{640 if destaque else 240}" height="{640 if destaque else 240}">' if img else ilustra(nome(x), x["loja"])}<span class="of-pct">−{pct(x["desc"])}</span>{f'<span class="pos">{pos}</span>' if pos else ""}{f'<span class="of-novo">🆕 entrou {e(novo)}</span>' if novo else ""}</a>
  <div class="of-c">
   {'<span class="of-rec">Menor preço do período</span>' if x["recorde"] else ""}{f'<span class="of-com">Achado da comunidade · vendedor não conferido</span>' if x.get("comunidade") else ""}
   <h3 class="of-n">{e(nome(x))}</h3>
@@ -354,7 +354,8 @@ document.addEventListener('click',async e=>{const b=e.target.closest('.cup-cod')
 </script>"""
 
 
-TOP_HORAS = 6  # janela do Top 5 (pedido do usuário em 04/11/2026)
+N_NOVIDADES = 8  # cartões em "Últimas novidades" (pedido do usuário em 04/11/2026)
+NOVIDADES = Path(__file__).resolve().parents[2] / "conteudo" / "black" / "novidades.json"
 
 
 JS_PUSH = """<script>
@@ -445,27 +446,12 @@ def build(radar_itens, armadilhas, quase=(), outras=()):
     for x in radar_itens:
         grupos.setdefault(x["slug"], []).append(x)
     melhor = {s: g[0] for s, g in grupos.items()}
-    # Top 5 = as melhores das últimas 6 horas (pedido do usuário em 04/11/2026): só ofertas encontradas ou conferidas
-    # desde então; a página é refeita a cada leitura do robô, então o Top 5 muda sozinho quando aparece oferta nova.
-    # Com menos de 5 na janela, completa com as melhores mais antigas (o cartão mostra a hora da conferência).
-    def _hora(x):
-        try:
-            d = dt.datetime.fromisoformat(str(x.get("verificado") or "").replace("Z", "+00:00"))
-            return d if d.tzinfo else d.replace(tzinfo=agora_.tzinfo)
-        except ValueError:
-            return None
-    nota_top = lambda x: -((x["bgg"] or 7.0) * x["desc"])
-    janela_top = agora_ - dt.timedelta(hours=TOP_HORAS)
-    recentes = sorted((x for x in melhor.values() if (_hora(x) or janela_top) > janela_top), key=nota_top)
-    top = recentes[:5] + sorted((x for x in melhor.values() if x not in recentes), key=nota_top)[:max(0, 5 - len(recentes))]
-    n_top_recentes = min(5, len(recentes))
     n_jogos = sum(1 for x in melhor.values() if x["tipo"] != "expansion")
     n_exps = len(melhor) - n_jogos
     maior = max((x["desc"] for x in melhor.values()), default=0)
     recordes = sum(1 for x in melhor.values() if x["recorde"])
     n_cupons = sum(len(r["cupons"]) for r in cps.values())
     curta = min((x["dias"] for x in radar_itens), default=None)
-    dest_html = "".join(cartao(grupos[x["slug"]], pre, cps, agora_, destaque=True, pos=i) for i, x in enumerate(top, 1))
     lista_html = "".join(cartao(g, pre, cps, agora_) for g in grupos.values())
     quase_html = "".join(cartao([x], pre, cps, agora_) for x in quase)
     # Outras promoções: jogos sem nota 7 no BGG nem prêmio, com o mesmo corte de 20% (pedido do usuário em 04/11/2026);
@@ -474,6 +460,36 @@ def build(radar_itens, armadilhas, quase=(), outras=()):
     for x in outras:
         g_outras.setdefault(x["slug"], []).append(x)
     outras_html = "".join(cartao(g, pre, cps, agora_) for g in g_outras.values())
+    # Últimas novidades (pedido do usuário em 04/11/2026, no lugar do Top 5 parado): as ofertas que entraram por
+    # último no radar (bem avaliados e outras promoções), a mais nova primeiro. A hora de entrada de cada jogo fica em
+    # conteudo/black/novidades.json; jogo que sai do radar e volta conta como novidade de novo.
+    todos_g = {**{x["slug"]: grupos[x["slug"]] for x in melhor.values()}, **{sl: g for sl, g in g_outras.items() if sl not in grupos}}
+    try:
+        entrou, primeira = json.loads(NOVIDADES.read_text(encoding="utf-8")), False
+    except (FileNotFoundError, ValueError):
+        entrou, primeira = {}, True
+        # primeira vez: o dia em que cada jogo entrou no radar e gerou alerta (alertas_estado.json); sem ele, fica vazio
+        try:
+            entrou = dict(json.loads((NOVIDADES.parent / "alertas_estado.json").read_text(encoding="utf-8")).get("avisados") or {})
+        except (FileNotFoundError, ValueError):
+            pass
+    marca = "" if primeira else agora_.isoformat(timespec="minutes")
+    entrou = {sl: (entrou[sl] if sl in entrou else marca) for sl in todos_g}
+    def quando(v):  # data sozinha (vinda dos alertas) mostra só o dia
+        if not v:
+            return None
+        if len(v) == 10:
+            return None  # só o dia (dos alertas): sem selo, o cartão já mostra a hora em que o preço foi visto
+        return hora(v, agora_)
+    try:
+        NOVIDADES.write_text(json.dumps(entrou, ensure_ascii=False, indent=1, sort_keys=True) + "\n", encoding="utf-8")
+    except OSError:
+        pass
+    # primeiro quem tem hora exata de entrada (mais nova primeiro); depois, o preço conferido mais recentemente
+    exata = lambda v: v if v and len(v) > 10 else ""
+    ordem = sorted(todos_g, key=lambda sl: (exata(entrou[sl]), str(todos_g[sl][0].get("verificado") or "")), reverse=True)
+    top = [todos_g[sl][0] for sl in ordem[:N_NOVIDADES]]
+    dest_html = "".join(cartao(todos_g[sl], pre, cps, agora_, destaque=True, novo=quando(entrou[sl])) for sl in ordem[:N_NOVIDADES])
     n_outras = len(g_outras)
     total = len(melhor) + n_outras
     maior = max([maior, *(x["desc"] for x in outras)], default=maior)
@@ -574,7 +590,7 @@ def build(radar_itens, armadilhas, quase=(), outras=()):
    <li><b>{n_cupons}</b><span>cupom{"s" if n_cupons != 1 else ""} anunciado{"s" if n_cupons != 1 else ""} pelas lojas</span></li>
   </ul>
   <p class="bk-atual">Atualizado em {agora_.strftime("%d/%m/%Y às %Hh%M")} (horário de Brasília). O radar lê os preços de novo a cada 30 minutos.</p>
-  <nav class="bk-pulo" aria-label="Atalhos"><a class="pri" href="#melhores">Ver as melhores ofertas</a><a class="sec" href="#alertas">🔔 Alertas no celular</a><button type="button" class="inst" hidden>📲 Tela de Início</button><a class="sec" href="#todas">Bem avaliados ({len(melhor)})</a>{f'<a class="sec" href="#outras">Outras promoções ({n_outras})</a>' if n_outras else ""}{f'<a class="sec" href="#quase">Quase Black ({len(quase)})</a>' if quase else ""}{'<a class="sec" href="#cupons">Cupons</a>' if cps_html else ""}{'<a class="sec" href="#comunidade">Achados da comunidade</a>' if pb_html else ""}{'<a class="sec" href="#sem-foto">Achados sem foto</a>' if sem_foto_html else ""}</nav>
+  <nav class="bk-pulo" aria-label="Atalhos"><a class="pri" href="#melhores">Ver as novidades</a><a class="sec" href="#alertas">🔔 Alertas no celular</a><button type="button" class="inst" hidden>📲 Tela de Início</button><a class="sec" href="#todas">Bem avaliados ({len(melhor)})</a>{f'<a class="sec" href="#outras">Outras promoções ({n_outras})</a>' if n_outras else ""}{f'<a class="sec" href="#quase">Quase Black ({len(quase)})</a>' if quase else ""}{'<a class="sec" href="#cupons">Cupons</a>' if cps_html else ""}{'<a class="sec" href="#comunidade">Achados da comunidade</a>' if pb_html else ""}{'<a class="sec" href="#sem-foto">Achados sem foto</a>' if sem_foto_html else ""}</nav>
  </header>
  <ul class="bk-conf">
   <li>Desconto calculado sobre a média aparada do histórico de preços, não sobre o preço "de" da loja.</li>
@@ -621,9 +637,9 @@ def build(radar_itens, armadilhas, quase=(), outras=()):
  {JS_PUSH if push else ""}
  {JS_INSTALA}
  <section id="melhores" aria-labelledby="h-melhores">
-  <h2 id="h-melhores">As 5 melhores das últimas 6 horas</h2>
-  <p class="sub">A melhor combinação de nota no BGG e desconto real entre as ofertas encontradas ou conferidas desde {(agora_ - dt.timedelta(hours=TOP_HORAS)).strftime("%Hh%M")}. Muda sozinho a cada leitura do radar.{"" if n_top_recentes >= 5 or not top else f" Nas últimas 6 horas apareceram {n_top_recentes}; as outras {len(top) - n_top_recentes} são as melhores de antes, com a hora da conferência no cartão."}</p>
-  {f'<ol class="dest">{dest_html}</ol><p class="dica-arrasta">Arraste para o lado para ver as cinco.</p>' if dest_html else '<p class="vazio">Nenhum jogo passou no corte nesta leitura. O radar tenta de novo em 30 minutos.</p>'}
+  <h2 id="h-melhores">Últimas novidades</h2>
+  <p class="sub">As ofertas que acabaram de entrar no radar, a mais nova primeiro. Muda a cada leitura, de 30 em 30 minutos.</p>
+  {f'<ol class="dest">{dest_html}</ol><p class="dica-arrasta">Arraste para o lado para ver as outras.</p>' if dest_html else '<p class="vazio">Nenhum jogo passou no corte nesta leitura. O radar tenta de novo em 30 minutos.</p>'}
  </section>
  <section id="todas" aria-labelledby="h-todas">
   <h2 id="h-todas">Todas as ofertas com desconto real</h2>
@@ -711,7 +727,7 @@ def build(radar_itens, armadilhas, quase=(), outras=()):
     try:
         import hashlib
         import cartao_black
-        arq = cartao_black.gerar(top, total, maior, agora_.strftime("%d/%m"))
+        arq = cartao_black.gerar(top[:5], total, maior, agora_.strftime("%d/%m"))
         og_img = f"{SITE}/img/black/{arq.name}?v={hashlib.md5(arq.read_bytes()).hexdigest()[:8]}"
     except Exception as ex:  # sem o cartão, a página segue com a imagem antiga
         print("aviso: cartão da Black não gerado:", ex)
